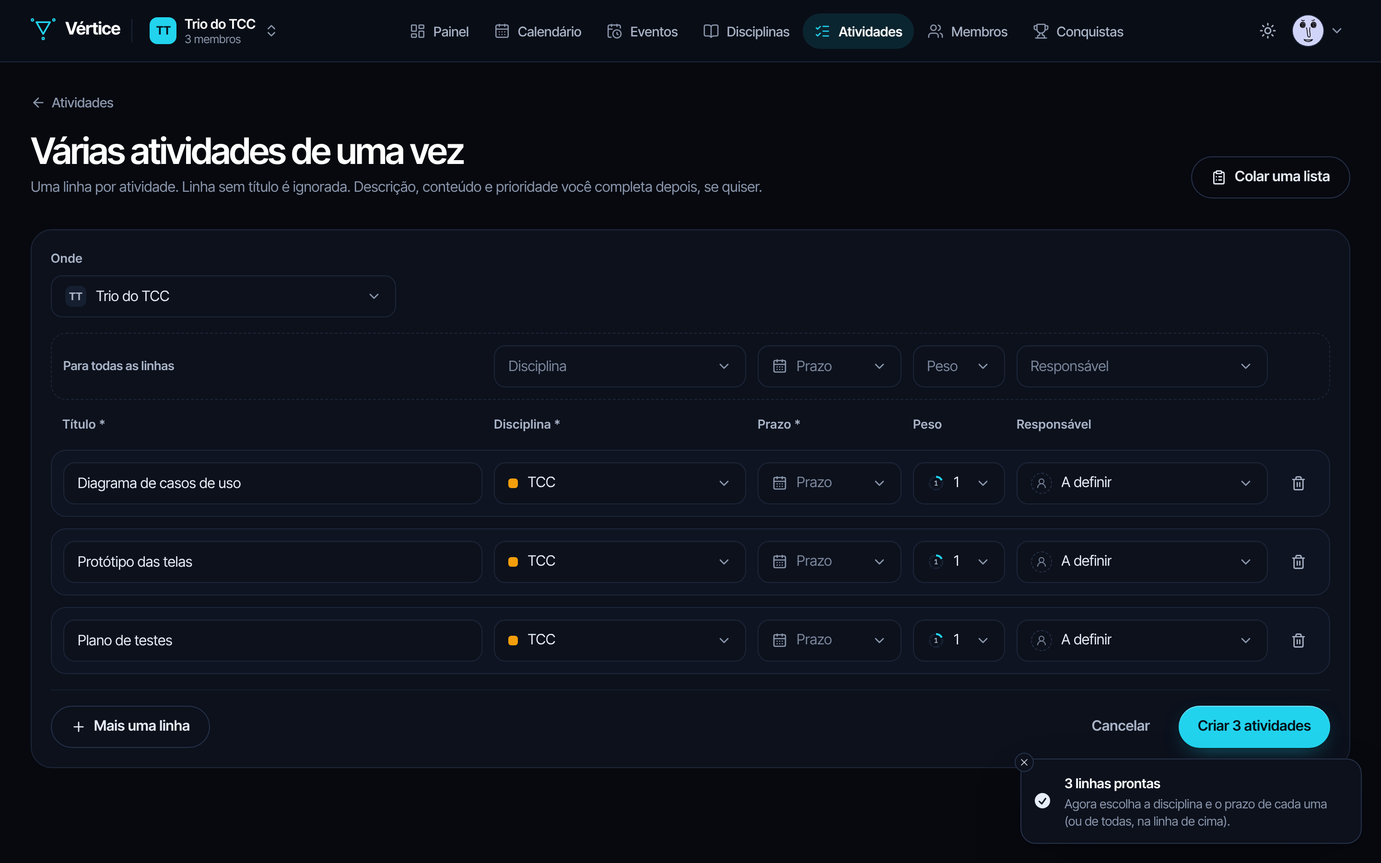
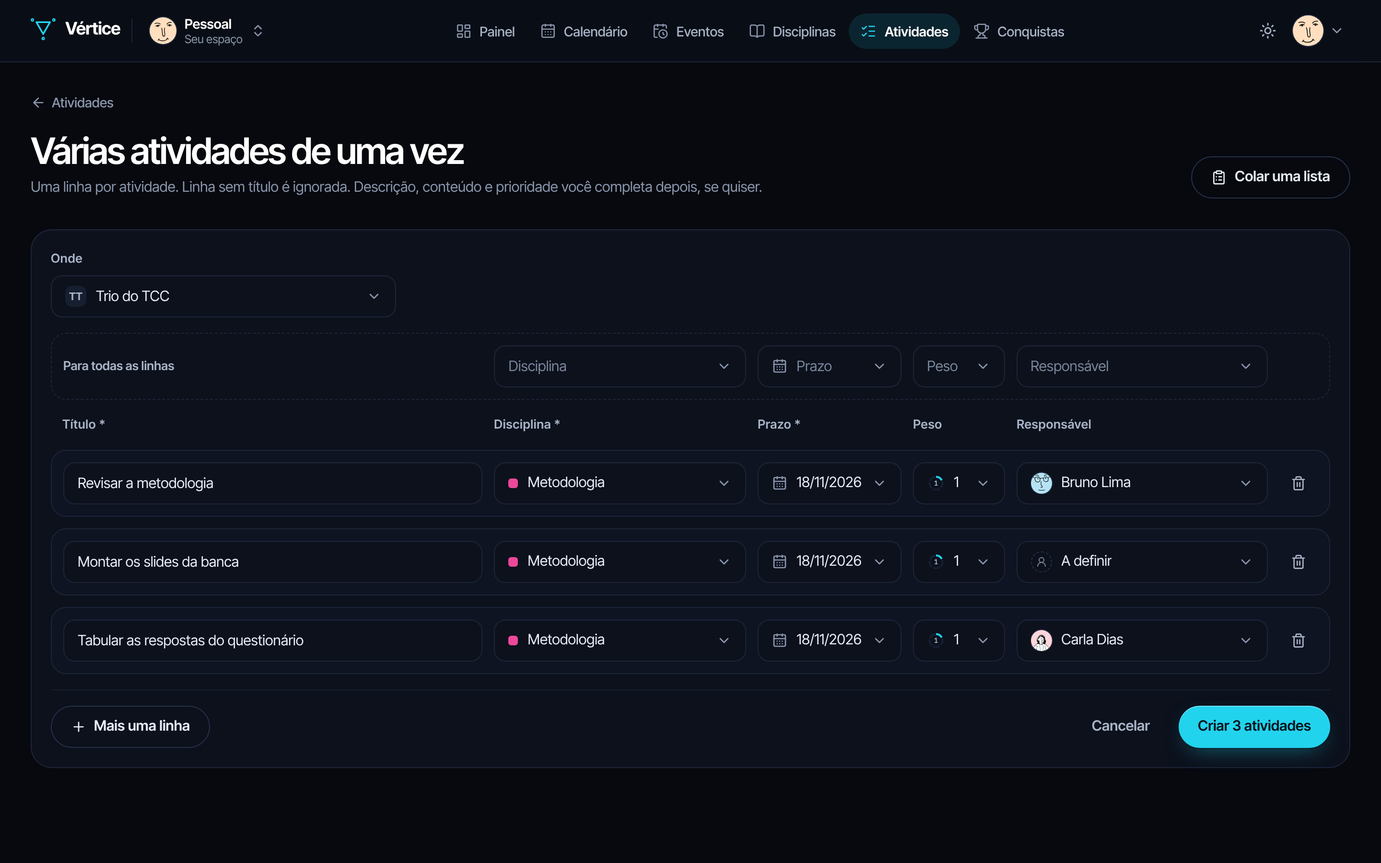
docs: D19, T99 e CT93, 93 casos aprovados

diff --git a/docs/15-casos-de-teste.md b/docs/15-casos-de-teste.md
@@ -5,9 +5,9 @@
 
 ---
 
-Este documento registra os testes executados sobre a versão da entrega de 27/11, com o banco de dados, o acesso com conta e o convite, com a revisão de 11/11 (o espaço pessoal, o perfil da conta, o lembrete por e-mail e os pedidos dos usuários de teste) e com a de 12/11, que trouxe o feedback para dentro do sistema, a saída do grupo e o histórico do grupo. Cada caso informa o requisito ou a regra que verifica, os passos, a entrada, o resultado esperado e o resultado observado na execução real. Os 92 casos foram executados em 12/11, e as observações de cada caso estão em [`casos-de-teste-12-11.json`](../testes/registros/casos-de-teste-12-11.json). As evidências têm o nome do caso no arquivo.
+Este documento registra os testes executados sobre a versão da entrega de 27/11, com o banco de dados, o acesso com conta e o convite, com a revisão de 11/11 (o espaço pessoal, o perfil da conta, o lembrete por e-mail e os pedidos dos usuários de teste) e com a de 12/11, que trouxe o feedback para dentro do sistema, a saída do grupo, o histórico do grupo e o responsável nas várias atividades de uma vez. Cada caso informa o requisito ou a regra que verifica, os passos, a entrada, o resultado esperado e o resultado observado na execução real. Os 93 casos foram executados em 12/11, e as observações de cada caso estão em [`casos-de-teste-12-11.json`](../testes/registros/casos-de-teste-12-11.json). As evidências têm o nome do caso no arquivo.
 
-Os casos CT01 a CT68 vêm das execuções anteriores e foram executados de novo sobre esta versão. Nos que tiveram os passos ajustados à revisão de 11/11 (a demonstração que começa pelo nome, o seletor de espaço, a volta à tela anterior depois de criar, o botão "Marcar como concluída", a conquista retirada, a barra de filtros do calendário e a foto em Meu perfil), a descrição abaixo é a da execução de 11/11, com as evidências de [`testes/evidencias-11-11/`](../testes/evidencias-11-11/). Os demais mantêm a descrição e as evidências da execução em que foram descritos ([`evidencias-06-11/`](../testes/evidencias-06-11/) ou [`evidencias-27-11/`](../testes/evidencias-27-11/)), e o resultado de 12/11 está na visão geral e no registro. Os casos CT69 a CT85 cobrem a revisão de 11/11 e mantêm a descrição e as evidências daquela execução. Os casos CT86 a CT92 são novos e cobrem a revisão de 12/11, e o CT56 foi revisto para ela; os oito têm as evidências de [`testes/evidencias-12-11/`](../testes/evidencias-12-11/).
+Os casos CT01 a CT68 vêm das execuções anteriores e foram executados de novo sobre esta versão. Nos que tiveram os passos ajustados à revisão de 11/11 (a demonstração que começa pelo nome, o seletor de espaço, a volta à tela anterior depois de criar, o botão "Marcar como concluída", a conquista retirada, a barra de filtros do calendário e a foto em Meu perfil), a descrição abaixo é a da execução de 11/11, com as evidências de [`testes/evidencias-11-11/`](../testes/evidencias-11-11/). Os demais mantêm a descrição e as evidências da execução em que foram descritos ([`evidencias-06-11/`](../testes/evidencias-06-11/) ou [`evidencias-27-11/`](../testes/evidencias-27-11/)), e o resultado de 12/11 está na visão geral e no registro. Os casos CT69 a CT85 cobrem a revisão de 11/11 e mantêm a descrição e as evidências daquela execução. Os casos CT86 a CT93 são novos e cobrem a revisão de 12/11, e o CT56 foi revisto para ela; os nove têm as evidências de [`testes/evidencias-12-11/`](../testes/evidencias-12-11/).
 
 Os ciclos anteriores (11/11, 08/11, 06/11, a rodada de 01/11 e 20/10) estão resumidos no [fim deste documento](#ciclo-de-1111). Defeitos encontrados estão no [Registro de Defeitos e Pendências](16-defeitos-e-pendencias.md).
 
@@ -17,9 +17,9 @@ Os ciclos anteriores (11/11, 08/11, 06/11, a rodada de 01/11 e 20/10) estão res
 
 | Item | Valor |
 |---|---|
-| Data da execução | 12/11/2026, das 10h13 às 10h21 |
+| Data da execução | 12/11/2026, das 14h18 às 14h26 |
 | Versão testada | O código de `src/` desta entrega (Vértice 2.0.0 com o banco de dados e as revisões de 11/11 e 12/11) |
-| Como a aplicação foi executada | `npm ci` e `npm run build` dentro de `src/`, duas vezes: sem as variáveis do banco, para o modo de demonstração (CT01 a CT56, CT67, CT68, CT81 a CT85, CT88 e CT92), e com elas, para o modo com conta (CT57 a CT66, CT69 a CT80, CT86, CT87 e CT89 a CT91). As duas versões foram servidas com `npm run preview` |
+| Como a aplicação foi executada | `npm ci` e `npm run build` dentro de `src/`, duas vezes: sem as variáveis do banco, para o modo de demonstração (CT01 a CT56, CT67, CT68, CT81 a CT85, CT88, CT92 e CT93), e com elas, para o modo com conta (CT57 a CT66, CT69 a CT80, CT86, CT87 e CT89 a CT91). As duas versões foram servidas com `npm run preview` |
 | Banco de dados | PostgreSQL 16 local, com `06-apoio-teste-local.sql` e `04-script-criacao.sql`, zerado antes de cada roteiro com conta. O sistema falou com ele por um servidor de teste que responde como o Supabase nas chamadas que o sistema usa (login por e-mail, consulta, inclusão, alteração e exclusão de linhas, a função do convite e o envio de arquivos), executando cada consulta no banco como a conta conectada, com as regras de acesso por linha valendo. O envio do lembrete (CT80) foi simulado: a chamada ao Brevo fica gravada numa tabela do apoio local, em vez de sair para a internet |
 | Ambiente | Node.js 22.23, npm 10.9, Chromium 153, tela de 1440 × 1000; do CT81 ao CT84, 1920 × 1080. No CT34, no CT53 e em parte do CT43, do CT46, do CT54 e do CT56, 390 × 844, tamanho de celular (no CT43, no CT46 e no CT54, também com tela de toque); no CT46, também 1024 × 900 |
 | Forma de execução | Roteiro automatizado no navegador (Playwright), seguindo os passos de cada caso; as capturas de tela são da própria execução. Do CT61 ao CT64 e do CT72 ao CT80, dois navegadores ao mesmo tempo, um para cada conta |
@@ -34,9 +34,9 @@ Os casos CT01 a CT26 formam **um único cenário em sequência**: cada um parte 
 
 | Situação | Casos |
 |---|---|
-| Aprovado | 92 |
+| Aprovado | 93 |
 | Reprovado | 0 |
-| **Total executado** | **92** |
+| **Total executado** | **93** |
 
 Além dos casos de teste, foram executadas as verificações automatizadas do projeto:
 
@@ -50,7 +50,7 @@ Além dos casos de teste, foram executadas as verificações automatizadas do pr
 | Atualização da saída e do histórico | `09-atualizacao-historico.sql` sobre um banco com dados, criado com o script do feedback | Nenhum registro perdido, o histórico do que já aconteceu montado com as datas guardadas, estrutura igual à de um banco novo e a mesma atualização rodada duas vezes sem erro | Conferido durante o desenvolvimento |
 | Registro da execução dos casos | roteiro no navegador | Observações de cada caso, na ordem em que foram conferidas | [`casos-de-teste-12-11.json`](../testes/registros/casos-de-teste-12-11.json) |
 
-Os defeitos D15 a D18, encontrados nas primeiras execuções de 11/11, foram corrigidos antes da execução de 11/11, e a de 12/11 não encontrou defeitos novos; a relação de cada defeito com o seu teste está no [registro de defeitos](16-defeitos-e-pendencias.md).
+Os defeitos D15 a D18, encontrados nas primeiras execuções de 11/11, foram corrigidos antes da execução de 11/11. O D19, encontrado pela equipe no uso do sistema em 12/11, foi corrigido antes da execução de 12/11, e o CT93 confere a correção; a relação de cada defeito com o seu teste está no [registro de defeitos](16-defeitos-e-pendencias.md).
 
 ---
 
@@ -150,6 +150,7 @@ Os defeitos D15 a D18, encontrados nas primeiras execuções de 11/11, foram cor
 | CT90 | RF39, RN28, RF38 | Quem fica vê "A definir" e o nome de quem saiu; a última organizadora não sai | Aprovado |
 | CT91 | RF40, RN29, RN28 | Histórico do grupo: quem fez o quê, filtros, a volta pelo convite e só leitura | Aprovado |
 | CT92 | RF39, RF40, RN28, RN29 | Demonstração: o histórico fica no navegador e a saída segue as mesmas regras | Aprovado |
+| CT93 | RF37, RF38, RN24 | Várias de uma vez: responsável por linha ou "A definir", e "você" no espaço pessoal | Aprovado |
 
 ---
 
@@ -1149,6 +1150,17 @@ Os defeitos D15 a D18, encontrados nas primeiras execuções de 11/11, foram cor
 - **Observado:** o histórico trouxe "Ana Souza criou o grupo" e as disciplinas criadas. A primeira tentativa abriu "Antes de sair, torne outra pessoa organizadora do grupo.". Com o Bruno organizador, a saída foi confirmada, o "Trio do TCC" sumiu do seletor, nenhuma atividade em aberto ficou com a Ana, e o histórico guardou a saída com as 3 atividades que ficaram "A definir". Nenhum erro no console
 - **Situação:** Aprovado
 - **Evidência:** [CT92.png](../testes/evidencias-12-11/CT92.png)
+
+### CT93: Várias de uma vez: responsável por linha ou "A definir", e "você" no espaço pessoal
+
+- **Requisito:** RF37, RF38, RN24, RN06
+- **Pré-condição:** demonstração com os dados de exemplo; a pessoa está no espaço pessoal
+- **Passos:** em Atividades, abrir "Várias de uma vez"; conferir a coluna Responsável; em "Onde", escolher "Trio do TCC"; colar três títulos; na linha "Para todas as linhas", escolher a disciplina, o prazo e o Bruno como responsável; deixar a segunda linha "A definir" e passar a terceira para a Carla; criar as atividades
+- **Entrada:** títulos "Lote A", "Lote B" e "Lote C"; disciplina Estatística; prazo em 5 dias
+- **Esperado:** no espaço pessoal, a coluna aparece em cada linha, travada em "você", com o aviso de escolher um grupo; num grupo, o aviso sai e cada linha começa "A definir"; "Para todas" aplica o responsável a todas, e cada linha pode ser trocada; cada atividade é criada com o responsável escolhido
+- **Observado:** aberta do espaço pessoal, a tela mostrou a coluna Responsável nas 3 linhas, com "Ana Souza (você)" travado, e o aviso "Para escolher o responsável ou deixar "A definir", escolha um grupo aqui.". Com o "Trio do TCC", o aviso saiu e as 3 linhas mostraram "A definir". "Para todas" pôs o Bruno Lima nas três. Criadas, "Lote A" ficou com o Bruno, "Lote B" "A definir" e "Lote C" com a Carla, todas em "a fazer". Nenhum erro no console
+- **Situação:** Aprovado
+- **Evidência:** [CT93a.png](../testes/evidencias-12-11/CT93a.png) (espaço pessoal), [CT93b.png](../testes/evidencias-12-11/CT93b.png) (num grupo, com os responsáveis)
 ---
 
 ## O que não foi testado nesta entrega

diff --git a/docs/12-backlog.md b/docs/12-backlog.md
@@ -9,24 +9,24 @@ O backlog reúne as tarefas de desenvolvimento, cada uma ligada ao requisito que
 
 Situações usadas: **A fazer**, **Em andamento** e **Concluída**.
 
-As tarefas T01 a T24 são do 1º bimestre e construíram o MVP. As tarefas a partir da T25 são do 2º bimestre. A T36 entrou depois da T35 por ter sido aberta a partir de um defeito encontrado nos testes, as tarefas T37 a T51 vieram da revisão de 28/10, com os pedidos da professora depois da entrega de 20/10, as tarefas T52 a T61, da revisão de 29/10, com os ajustes que a equipe pediu ao revisar a versão 2, as tarefas T62 a T65, da revisão de 01/11, as tarefas T66 a T73, da revisão de 03/11, as tarefas T74 a T77, da revisão de 08/11, as tarefas T78 a T89, da revisão de 11/11, com as considerações da equipe e os comentários dos usuários de teste, e as tarefas T90 a T98, da revisão de 12/11, com o feedback dentro do sistema, a saída do grupo e o histórico do grupo; a numeração não indica ordem de execução.
+As tarefas T01 a T24 são do 1º bimestre e construíram o MVP. As tarefas a partir da T25 são do 2º bimestre. A T36 entrou depois da T35 por ter sido aberta a partir de um defeito encontrado nos testes, as tarefas T37 a T51 vieram da revisão de 28/10, com os pedidos da professora depois da entrega de 20/10, as tarefas T52 a T61, da revisão de 29/10, com os ajustes que a equipe pediu ao revisar a versão 2, as tarefas T62 a T65, da revisão de 01/11, as tarefas T66 a T73, da revisão de 03/11, as tarefas T74 a T77, da revisão de 08/11, as tarefas T78 a T89, da revisão de 11/11, com as considerações da equipe e os comentários dos usuários de teste, e as tarefas T90 a T99, da revisão de 12/11, com o feedback dentro do sistema, a saída do grupo, o histórico do grupo e o responsável nas várias atividades de uma vez; a numeração não indica ordem de execução.
 
 ---
 
 ## Situação geral
 
-| Situação | 1º bimestre (T01–T24) | 2º bimestre (T25–T98) | Total |
+| Situação | 1º bimestre (T01–T24) | 2º bimestre (T25–T99) | Total |
 |---|---|---|---|
-| Concluída | 24 | 71 | 95 |
+| Concluída | 24 | 72 | 96 |
 | Em andamento | 0 | 3 | 3 |
 | A fazer | 0 | 0 | 0 |
-| **Total** | **24** | **74** | **98** |
+| **Total** | **24** | **75** | **99** |
 
 **O que estava previsto para 27/11 está implementado e testado.** O banco de dados no PostgreSQL do Supabase, com as regras de acesso garantidas pelo próprio banco (T46), a troca do armazenamento do navegador pelo banco (T47), o acesso com conta (T48), o convite por link e código (T49), as fotos no armazenamento de arquivos (T50) e a evolução do progresso (T35), além do modo de demonstração sem conta (T74) e do tutorial opcional (T75), passaram nos [casos de teste](15-casos-de-teste.md) desta entrega e nas verificações do banco (T76).
 
 **A revisão de 11/11 também está implementada e testada.** O espaço pessoal (T78 a T80), o perfil da conta (T81), o lembrete por e-mail (T82), o evento de vários dias (T83), os filtros do calendário (T84), o responsável "A definir" (T85), as ações em lote (T86), a retirada da conquista ao desfazer (T87) e os ajustes de uso (T88) passaram nos 85 casos de teste e nas verificações do banco (T89). A atualização do banco foi testada sobre dados no formato anterior, sem perder nenhum registro.
 
-**A revisão de 12/11 também.** O feedback dentro do Vértice, com a página de perguntas e a tela das respostas só para a equipe (T90 a T92), a saída do grupo (T94, T96) e o histórico do grupo (T95, T97) passaram nos 92 casos de teste e nas verificações do banco (T93, T98).
+**A revisão de 12/11 também.** O feedback dentro do Vértice, com a página de perguntas e a tela das respostas só para a equipe (T90 a T92), a saída do grupo (T94, T96), o responsável nas várias de uma vez (T99) e o histórico do grupo (T95, T97) passaram nos 93 casos de teste e nas verificações do banco (T93, T98).
 
 A **T34** e a **T51** continuam em andamento: falta executar os casos de teste no Firefox e no Edge (RNF05). A **T77** também: os comentários dos usuários de teste recebidos até 11/11 entraram na revisão de 11/11, e as respostas que chegarem até 20/11, agora na tela Respostas do feedback, ainda serão lidas.
 
@@ -210,6 +210,7 @@ A decisão da T14 foi revista em 28/10: a pedido da professora, o responsável v
 | T96 | "Sair do grupo" no menu do grupo e em Membros, com a confirmação e os casos em que não dá para sair; quem saiu marcado nas atividades | RF39, RN28 | Média | Andrey | 20/11/2026 | Concluída |
 | T97 | Painel do histórico do grupo, com filtros por pessoa e por tipo, e o histórico da demonstração no navegador | RF40, RN29 | Baixa | Andrey | 20/11/2026 | Concluída |
 | T98 | Casos de teste CT89 a CT92 e as verificações da saída e do histórico, em JavaScript e no banco | RF39, RF40 | Alta | Matheus | 20/11/2026 | Concluída |
+| T99 | Coluna Responsável sempre à vista nas várias atividades de uma vez, travada em "você" no espaço pessoal, e o caso CT93 (D19) | RF37, RN24 | Média | Andrey | 20/11/2026 | Concluída |
 
 ---
 
@@ -280,7 +281,7 @@ As seis foram executadas nessa ordem, e foi ela que ditou o ritmo: a disciplina 
 
 | Integrante | Frente | Tarefas |
 |---|---|---|
-| **Andrey Fogaça** | Interface, telas e experiência de uso | 1º bimestre: T01, T02, T03, T04, T05, T08, T09, T10, T11, T14, T15, T16, T17, T20, T22, T23, T24 · 2º bimestre: T25, T26, T27, T29, T32, T34, T36, T39, T40, T41, T43, T44, T48, T49, T50, T51, T52, T53, T54, T55, T56, T60, T61, T62, T63, T65, T68, T69, T70, T71, T72, T73, T74, T75, T77, T79, T80, T81, T83, T84, T86, T88, T91, T92, T96, T97 |
+| **Andrey Fogaça** | Interface, telas e experiência de uso | 1º bimestre: T01, T02, T03, T04, T05, T08, T09, T10, T11, T14, T15, T16, T17, T20, T22, T23, T24 · 2º bimestre: T25, T26, T27, T29, T32, T34, T36, T39, T40, T41, T43, T44, T48, T49, T50, T51, T52, T53, T54, T55, T56, T60, T61, T62, T63, T65, T68, T69, T70, T71, T72, T73, T74, T75, T77, T79, T80, T81, T83, T84, T86, T88, T91, T92, T96, T97, T99 |
 | **Matheus Saraiva Faustin** | Modelo de dados e regras de cálculo | 1º bimestre: T06, T07, T12, T13, T18, T19, T21 · 2º bimestre: T28, T30, T31, T33, T34, T35, T37, T38, T42, T45, T46, T47, T51, T57, T58, T59, T64, T66, T67, T72, T76, T77, T78, T82, T85, T87, T89, T90, T93, T94, T95, T98 |
 
 A divisão indica quem conduz a tarefa, não quem é o único a conhecê-la. No 2º bimestre, as regras novas (ofensiva, conquistas, responsável obrigatório, quem muda o status) e o banco de dados seguem com o Matheus, e as telas que as exibem, o acesso com conta e a publicação, com o Andrey. As tarefas do Matheus concentram as regras que sustentam o progresso (RN08, RN09, RN13, RN14 e RN10); as do Andrey concentram a tradução dessas regras em tela.

diff --git a/README.md b/README.md
@@ -56,7 +56,7 @@ Versão avaliada: tag **`entrega-27-11-2026`**.
 
 **Resumo:** o Vértice ficou completo. Os dados do grupo passaram do navegador para um banco PostgreSQL no Supabase, em que as próprias regras do banco garantem que cada conta só veja os grupos de que participa e só altere o que o perfil permite. A pessoa entra com e-mail e senha ou com a conta Google, o organizador chama a turma por um link ou um código de convite, as fotos vão para o armazenamento de arquivos e a tela da disciplina mostra a evolução do progresso dia a dia. Quem só quer conhecer o sistema usa o modo de demonstração, sem conta, que ganhou um tutorial opcional.
 
-Na revisão de 11/11, com as considerações da equipe e os comentários dos usuários de teste, cada pessoa ganhou um **espaço pessoal**, onde cai ao entrar e onde organiza o que é só dela e o que está com ela em todos os grupos, sem sair de um grupo para anotar uma tarefa do dia a dia. Entraram também o perfil da conta, com a foto valendo em todos os grupos, o lembrete diário por e-mail, o evento de vários dias, filtros mais claros no calendário, o responsável "A definir" com o botão Assumir, as ações em lote e telas mais largas no computador. Os dados de quem já tinha conta continuam: o banco recebe uma atualização própria, que só acrescenta. Na revisão de 12/11, o feedback dos usuários de teste passou para dentro do sistema: uma pergunta por vez, sem conta e sem nome, com as respostas lidas só pela equipe numa tela própria. Qualquer membro passou a poder sair do grupo sozinho, com o que estava em aberto ficando "A definir", e cada grupo ganhou um histórico, discreto, de tudo o que aconteceu nele e de quem fez. Os 40 requisitos funcionais estão implementados. Foram executados 92 casos de teste em 12/11/2026, todos aprovados, além de 332 verificações das regras em JavaScript e 111 verificações do banco em SQL; os defeitos encontrados (D11 a D18) foram corrigidos antes das execuções finais.
+Na revisão de 11/11, com as considerações da equipe e os comentários dos usuários de teste, cada pessoa ganhou um **espaço pessoal**, onde cai ao entrar e onde organiza o que é só dela e o que está com ela em todos os grupos, sem sair de um grupo para anotar uma tarefa do dia a dia. Entraram também o perfil da conta, com a foto valendo em todos os grupos, o lembrete diário por e-mail, o evento de vários dias, filtros mais claros no calendário, o responsável "A definir" com o botão Assumir, as ações em lote e telas mais largas no computador. Os dados de quem já tinha conta continuam: o banco recebe uma atualização própria, que só acrescenta. Na revisão de 12/11, o feedback dos usuários de teste passou para dentro do sistema: uma pergunta por vez, sem conta e sem nome, com as respostas lidas só pela equipe numa tela própria. Qualquer membro passou a poder sair do grupo sozinho, com o que estava em aberto ficando "A definir", e cada grupo ganhou um histórico, discreto, de tudo o que aconteceu nele e de quem fez. Os 40 requisitos funcionais estão implementados. Foram executados 93 casos de teste em 12/11/2026, todos aprovados, além de 332 verificações das regras em JavaScript e 111 verificações do banco em SQL; os defeitos encontrados (D11 a D19) foram corrigidos antes das execuções finais.
 
 ### Entrega de 06/11/2026
 
@@ -141,7 +141,7 @@ Versão avaliada: tag **`entrega-20-10-2026`**. O MVP construído, com 29 casos 
 │   ├── telas/          As oito telas do protótipo do MVP em imagem
 │   └── navegavel/      Protótipo clicável do MVP: abra o index.html no navegador
 ├── testes/             Evidências e registros da execução dos testes
-│   ├── evidencias-12-11/  Capturas de tela dos casos novos e revistos de 12/11 (CT56, CT86 a CT92)
+│   ├── evidencias-12-11/  Capturas de tela dos casos novos e revistos de 12/11 (CT56, CT86 a CT93)
 │   ├── evidencias-11-11/  Capturas de tela da execução de 11/11, por caso de teste
 │   ├── evidencias-27-11/  Capturas de tela da execução de 08/11
 │   ├── evidencias-06-11/  Capturas de tela do ciclo de 06/11
@@ -172,7 +172,7 @@ Versão avaliada: tag **`entrega-20-10-2026`**. O MVP construído, com 29 casos 
 | 12 | [Backlog do Projeto](docs/12-backlog.md) | 89 tarefas com requisito, prioridade, responsável, prazo, situação e critérios de conclusão |
 | 13 | [Arquitetura e Tecnologias](docs/13-arquitetura.md) | Camadas, banco e login no Supabase, lembrete por e-mail, serviços externos, ambiente e organização das pastas |
 | 14 | [Produto Mínimo Viável](docs/14-mvp.md) | Classificação dos requisitos, o fluxo completo e os recortes de 20/10, 06/11 e 27/11 |
-| 15 | [Casos de Teste](docs/15-casos-de-teste.md) | 92 casos executados em 12/11, com resultado e evidência, e o resumo dos ciclos anteriores |
+| 15 | [Casos de Teste](docs/15-casos-de-teste.md) | 93 casos executados em 12/11, com resultado e evidência, e o resumo dos ciclos anteriores |
 | 16 | [Defeitos e Pendências](docs/16-defeitos-e-pendencias.md) | Defeitos encontrados nos testes e pendências |
 
 ### Modelagem do software

diff --git a/docs/16-defeitos-e-pendencias.md b/docs/16-defeitos-e-pendencias.md
@@ -5,7 +5,7 @@
 
 ---
 
-Defeitos encontrados na execução dos [casos de teste](15-casos-de-teste.md). O ciclo de 20/10, executado em 19/10/2026 sobre o commit `c29279b`, encontrou os defeitos D01 a D07; o ciclo de 06/11, executado em 28/10/2026 e repetido por inteiro em 29/10/2026, em 01/11/2026 e em 06/11/2026, depois dos ajustes pedidos pela equipe, encontrou os defeitos D08 a D10. A rodada de 06/11, com a revisão de 03/11, não encontrou defeito novo. O ciclo de 27/11, executado em 08/11/2026 sobre a versão com o banco de dados, encontrou os defeitos D11 a D13, corrigidos no mesmo dia. A conferência no sistema publicado, com o projeto real do Supabase, encontrou o D14. A execução completa de 11/11/2026, com a revisão de 11/11, encontrou os defeitos D15 a D18, corrigidos antes da execução final. Cada defeito tem forma de reproduzir, comportamento esperado e observado, responsável e situação. Depois da correção, o caso de teste ligado a ele é executado de novo e o resultado é atualizado aqui e no documento de testes.
+Defeitos encontrados na execução dos [casos de teste](15-casos-de-teste.md). O ciclo de 20/10, executado em 19/10/2026 sobre o commit `c29279b`, encontrou os defeitos D01 a D07; o ciclo de 06/11, executado em 28/10/2026 e repetido por inteiro em 29/10/2026, em 01/11/2026 e em 06/11/2026, depois dos ajustes pedidos pela equipe, encontrou os defeitos D08 a D10. A rodada de 06/11, com a revisão de 03/11, não encontrou defeito novo. O ciclo de 27/11, executado em 08/11/2026 sobre a versão com o banco de dados, encontrou os defeitos D11 a D13, corrigidos no mesmo dia. A conferência no sistema publicado, com o projeto real do Supabase, encontrou o D14. A execução completa de 11/11/2026, com a revisão de 11/11, encontrou os defeitos D15 a D18, corrigidos antes da execução final. O D19 foi encontrado pela equipe no uso do sistema, em 12/11/2026. Cada defeito tem forma de reproduzir, comportamento esperado e observado, responsável e situação. Depois da correção, o caso de teste ligado a ele é executado de novo e o resultado é atualizado aqui e no documento de testes.
 
 Situações usadas: **Aberto**, **Em correção**, **Corrigido, aguardando reteste** e **Fechado**.
 
@@ -33,12 +33,27 @@ Situações usadas: **Aberto**, **Em correção**, **Corrigido, aguardando retes
 | D16 | No sistema sem banco configurado, "Sair da demonstração" levava a uma tela de login que não funciona | Baixa | CT24 de 11/11 | Andrey | CT24 e CT65 (aprovados) | Fechado |
 | D17 | Roteiro do CT51 esperava nenhum evento em feriado, e o exemplo cai em 15/11 quando o teste roda em 11/11 | Baixa | CT51 de 11/11 | Andrey | CT51 (aprovado) | Fechado |
 | D18 | Roteiros do CT59 e do CT64 não previam o espaço pessoal | Baixa | CT59 e CT64 de 11/11 | Matheus | CT59 e CT64 (aprovados) | Fechado |
+| D19 | Nas várias atividades de uma vez, abertas do espaço pessoal, a coluna Responsável sumia, e parecia não haver como escolher o responsável nem "A definir" | Média | Uso do sistema em 12/11 | Andrey | CT93 (aprovado) | Fechado |
 
-Os defeitos D01 a D10 foram corrigidos até 28/10/2026 e testados de novo nas execuções completas do ciclo de 06/11. Os defeitos D11 a D13 foram corrigidos em 08/11/2026, e a execução completa do ciclo de 27/11 foi feita depois das correções. Os defeitos D15 a D18 foram corrigidos em 11/11/2026, e a execução completa de 11/11 foi refeita depois das correções.
+Os defeitos D01 a D10 foram corrigidos até 28/10/2026 e testados de novo nas execuções completas do ciclo de 06/11. Os defeitos D11 a D13 foram corrigidos em 08/11/2026, e a execução completa do ciclo de 27/11 foi feita depois das correções. Os defeitos D15 a D18 foram corrigidos em 11/11/2026, e a execução completa de 11/11 foi refeita depois das correções. O D19 foi corrigido em 12/11/2026, antes da execução completa de 12/11.
 
 ---
 
 ## Detalhamento
+
+### D19
+
+**Nas várias atividades de uma vez, abertas do espaço pessoal, a coluna Responsável sumia**
+
+- **Requisito afetado:** RF37, RF38
+- **Gravidade:** Média
+- **Como reproduzir:** entrar no sistema (a pessoa cai no espaço pessoal), abrir Atividades e "Várias de uma vez".
+- **Esperado:** dar para escolher quem faz cada atividade, ou deixar "A definir", como no cadastro de uma atividade só.
+- **Observado:** como "Onde" começa no espaço pessoal, em que tudo fica com a própria pessoa (RN24), a coluna Responsável não aparecia, e nada indicava que ela volta ao escolher um grupo em "Onde". A equipe entendeu que faltava a opção.
+- **Correção:** a coluna Responsável fica sempre à vista. No espaço pessoal, aparece travada em "você", com o aviso de escolher um grupo em "Onde" para escolher outra pessoa ou "A definir"; num grupo, cada linha começa "A definir" e pode receber qualquer pessoa do grupo, uma a uma ou pela linha "Para todas as linhas".
+- **Responsável:** Andrey
+- **Situação:** Fechado
+- **Novo teste:** CT93, aprovado
 
 ### D18
 

diff --git a/docs/06-requisitos-funcionais.md b/docs/06-requisitos-funcionais.md
@@ -43,7 +43,7 @@
 | **RF34** | O sistema deve oferecer a cada pessoa um espaço pessoal, aberto ao entrar, onde ela cadastra atividades e eventos só dela e vê, num lugar só, o que está com ela em todos os grupos: as atividades sob sua responsabilidade, os eventos dos grupos, a experiência, a ofensiva e as conquistas somadas e o atalho para cada grupo. O espaço pessoal é criado no primeiro acesso, inclusive para as contas que já existiam, sem alterar os dados dos grupos. | Alta | RF01, RF27 |
 | **RF35** | O sistema deve oferecer a tela Meu perfil, onde a pessoa define o nome, o avatar e a foto que a identificam em todos os grupos de que participa, de uma vez. | Alta | RF19, RF24, RF34 |
 | **RF36** | O sistema deve enviar, uma vez por dia, um e-mail de lembrete a quem entrou com conta, com as atividades sob sua responsabilidade que vencem nos próximos dias ou estão atrasadas, e permitir desligar o lembrete em Meu perfil. | Média | RF03, RF27, RF35 |
-| **RF37** | O sistema deve permitir cadastrar várias atividades de uma vez, numa tabela em que cada linha é uma atividade, com a lista de títulos colada de uma vez e uma linha "Para todas" que aplica a mesma disciplina, prazo, peso ou responsável a todas; e permitir que o organizador selecione várias atividades na lista e troque o responsável de todas de uma vez. | Média | RF03, RF04 |
+| **RF37** | O sistema deve permitir cadastrar várias atividades de uma vez, numa tabela em que cada linha é uma atividade, com a lista de títulos colada de uma vez e uma linha "Para todas" que aplica a mesma disciplina, prazo, peso ou responsável a todas, em que, num grupo, cada linha tem o seu responsável ou fica "A definir" e, no espaço pessoal, todas ficam com a própria pessoa; e permitir que o organizador selecione várias atividades na lista e troque o responsável de todas de uma vez. | Média | RF03, RF04 |
 | **RF38** | O sistema deve permitir cadastrar uma atividade do grupo com o responsável "A definir", visível para todos os integrantes, e oferecer a cada um o botão Assumir, que torna a pessoa responsável por ela. | Média | RF03, RF05 |
 | **RF39** | O sistema deve permitir que qualquer membro saia do grupo por conta própria, depois de confirmar: as atividades em aberto sob a responsabilidade dele ficam "A definir", as concluídas e as conquistas continuam no nome dele, e ele deixa de ver o grupo até voltar por um convite. | Média | RF01, RF28, RF38 |
 | **RF40** | O sistema deve manter o histórico de cada grupo, com cada ação feita nele (cadastro, edição e exclusão de atividades, disciplinas, conteúdos e eventos; conclusão, troca de responsável, entrada e saída de pessoas, conquistas), quem a fez e quando, e permitir que qualquer membro o consulte, com filtro por pessoa e por tipo, a partir de um atalho discreto. | Baixa | RF01 |

diff --git a/docs/11-matriz-de-rastreabilidade.md b/docs/11-matriz-de-rastreabilidade.md
@@ -156,7 +156,7 @@ Atualizado em 11/11/2026, sobre a versão da entrega de 27/11 (tag `entrega-27-1
 | **RF34**: Espaço pessoal | `context/AuthContext.jsx`, `context/DataContext.jsx`, `components/layout/AppShell.jsx`, `pages/Painel.jsx`, `pages/Atividades.jsx`, `pages/Calendario.jsx`, `pages/Eventos.jsx`, `pages/Conquistas.jsx`, `hooks/usePermissoes.js`, `lib/remoto.js`, `lib/migracao.js`; função `garantir_espaco_pessoal` no banco | CT69, CT70, CT81, CT85; `verificacoes/migracao.js`, `05-verificacoes.sql` | Implementado e testado |
 | **RF35**: Perfil da conta | `pages/Perfil.jsx`, `context/DataContext.jsx`, `lib/validacao.js`, `lib/fotosRemotas.js`; tabela `perfil` e gatilho `conferir_perfil` no banco | CT05, CT72, CT76; `05-verificacoes.sql` | Implementado e testado |
 | **RF36**: Lembrete por e-mail | Funções `lembretes_do_dia` e `enviar_lembretes` no banco (`04-script-criacao.sql`, seção 7), `pages/Perfil.jsx` (ligar e desligar) | CT80; `05-verificacoes.sql` | Implementado e testado com o envio simulado; o envio real depende da chave do Brevo no Supabase |
-| **RF37**: Atividades em lote | `pages/AtividadesEmLote.jsx`, `pages/Atividades.jsx`, `components/atividades/LinhaAtividade.jsx`, `context/DataContext.jsx` | CT78, CT79 | Implementado e testado |
+| **RF37**: Atividades em lote | `pages/AtividadesEmLote.jsx`, `pages/Atividades.jsx`, `components/atividades/LinhaAtividade.jsx`, `context/DataContext.jsx` | CT78, CT79, CT93 | Implementado e testado |
 | **RF38**: "A definir" e Assumir | `components/opcoes.jsx`, `components/atividades/LinhaAtividade.jsx`, `pages/AtividadeDetalhe.jsx`, `lib/permissoes.js`, `hooks/usePermissoes.js`; gatilho `conferir_atividade` no banco | CT09, CT73; `verificacoes/permissoes.js`, `05-verificacoes.sql` | Implementado e testado |
 | **RF39**: Sair do grupo | `components/grupos/SairDoGrupo.jsx`, `pages/Membros.jsx`, `components/layout/AppShell.jsx`, `lib/registro.js`, `context/DataContext.jsx`; função `sair_do_grupo` no banco | CT89, CT90, CT92; `verificacoes/registro.js`, `05-verificacoes.sql` | Implementado e testado |
 | **RF40**: Histórico do grupo | `components/grupos/HistoricoDoGrupo.jsx`, `components/ui/dialogo.jsx` (painel lateral), `lib/registro.js`, `context/DataContext.jsx`; tabela `registro` e gatilhos no banco | CT91, CT92; `verificacoes/registro.js`, `05-verificacoes.sql` | Implementado e testado |

diff --git a/docs/09-historico-de-alteracoes.md b/docs/09-historico-de-alteracoes.md
@@ -294,7 +294,8 @@ Com os primeiros usuários de teste, a equipe achou que o formulário do Google 
 | 12/11/2026 | RF36 | O e-mail do lembrete ganhou o visual do sistema: a marca, as fontes Inter Tight e JetBrains Mono, as atividades atrasadas separadas das que vencem nos próximos dias e o assunto que diz quantas de cada | Script do banco (`enviar_lembretes`), verificações do banco |
 | 12/11/2026 | RF39, RN28 | Requisito e regra novos: qualquer membro sai do grupo pelo menu do grupo ou pela tela Membros. As atividades em aberto dele ficam "A definir"; as concluídas e as conquistas continuam no nome dele, marcado como "(saiu)". O último organizador passa o cargo antes, e quem está sozinho exclui o grupo. Volta pelo convite | UC22 novo, modelo de dados (`membro.data_saida`), testes (CT89, CT90) |
 | 12/11/2026 | RF40, RN29 | Requisito e regra novos: o histórico do grupo, num painel lateral aberto por um ícone pequeno em Membros e pelo menu do grupo, com quem fez cada ação e quando, filtros por pessoa e por tipo, só para leitura. O que aconteceu antes foi montado com as datas guardadas | UC23 novo, modelo de dados (tabela `registro`), testes (CT91, CT92) |
-| 12/11/2026 | Docs. 05, 06, 08, 10 a 16, diagrama de casos de uso, modelo de dados e protótipos | Requisitos e regras novos e revistos; UC22 e UC23; matriz com RF39, RF40, RN27 a RN29 e as tabelas novas; tarefas T90 a T98; arquitetura; casos CT86 a CT92; atualizações do banco em `08-atualizacao-feedback.sql` e `09-atualizacao-historico.sql` | Documento inteiro |
+| 12/11/2026 | RF37, RN24 | Na tela "Várias de uma vez", a coluna Responsável fica sempre à vista. Aberta do espaço pessoal, onde todo mundo cai ao entrar, ela aparece travada em "você", com o aviso de escolher um grupo em "Onde"; num grupo, cada linha escolhe quem faz ou fica "A definir". Antes, a coluna sumia no espaço pessoal, e parecia que não dava para escolher o responsável (D19) | UC20, defeitos (D19), testes (CT93) |
+| 12/11/2026 | Docs. 05, 06, 08, 10 a 16, diagrama de casos de uso, modelo de dados e protótipos | Requisitos e regras novos e revistos; UC22 e UC23; matriz com RF39, RF40, RN27 a RN29 e as tabelas novas; tarefas T90 a T99; arquitetura; casos CT86 a CT93; defeito D19; atualizações do banco em `08-atualizacao-feedback.sql` e `09-atualizacao-historico.sql` | Documento inteiro |
 
 ---
 

diff --git a/docs/10-casos-de-uso.md b/docs/10-casos-de-uso.md
@@ -557,7 +557,8 @@ O convite por link ou por código de acesso, para a pessoa entrar no grupo com a
 **Fluxos alternativos**
 
 - **(7A) Linha inválida:** o sistema marca o campo com problema na linha e não grava nenhuma até a correção (RNF03).
-- **(2A) No espaço pessoal:** a disciplina pode ficar "Sem disciplina" e não há coluna de responsável (RN24).
+- **(2A) No espaço pessoal:** a disciplina pode ficar "Sem disciplina", e a coluna de responsável aparece travada no próprio estudante (RN24). Se ele tem grupos, o sistema avisa que, para escolher outra pessoa ou deixar "A definir", basta escolher um grupo em "Onde".
+- **(5A) Responsável por linha:** num grupo, cada linha começa "A definir" (RN06); o estudante escolhe quem faz em cada uma ou em todas, pela linha "Para todas as linhas".
 - **(1A) Trocar o responsável de várias:** num grupo, o organizador aciona "Selecionar" na lista, marca as atividades, escolhe o novo responsável (ou "A definir") na barra que aparece no pé da tela e aciona "Trocar responsável". O sistema troca nas atividades não concluídas e informa quantas mudaram; as concluídas ficam como estão, porque a experiência é de quem as concluiu (RN10), e "A definir" só vale para as que estão em "a fazer" (RN06).
 - **(1B) Participante:** a seleção para trocar o responsável não aparece (RN07).
 

diff --git a/prototipos/01-telas-e-navegacao.md b/prototipos/01-telas-e-navegacao.md
@@ -105,7 +105,7 @@ O organizador aciona **Selecionar**, marca as atividades e escolhe o novo respon
 
 ![Cadastro de várias atividades de uma vez](telas-v2/lote.png)
 
-Uma linha por atividade, com o essencial. A lista de títulos pode ser colada de uma vez, e a linha "Para todas as linhas" aplica a mesma disciplina, prazo, peso ou responsável a todas.
+Uma linha por atividade, com o essencial. A lista de títulos pode ser colada de uma vez, e a linha "Para todas as linhas" aplica a mesma disciplina, prazo, peso ou responsável a todas. Num grupo, cada linha começa "A definir" e recebe quem vai fazer. Desde 12/11, a coluna Responsável aparece também no espaço pessoal, travada em "você", com o aviso de escolher um grupo em "Onde" (D19).
 
 #### Calendário com a barra de filtros
 
